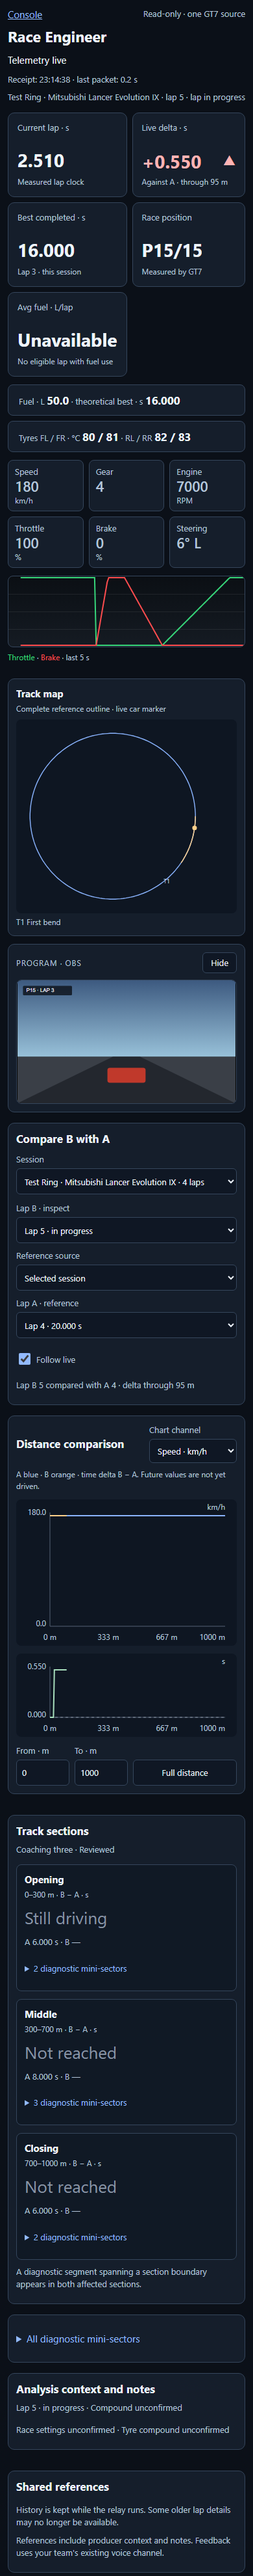
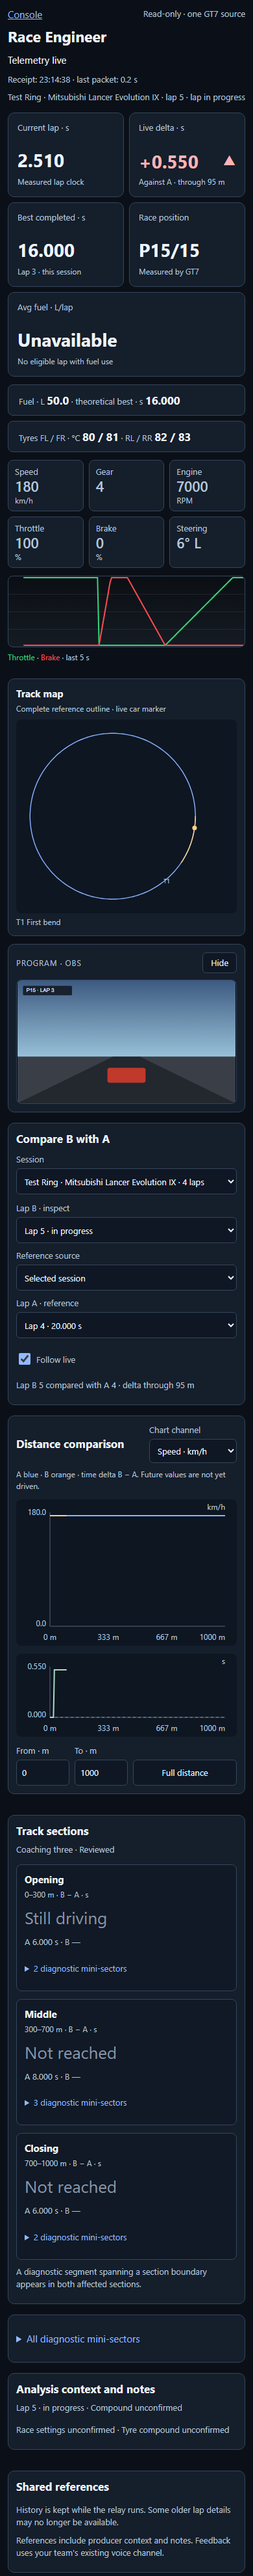
fix(console): keep the Engineer headline inside phone width

Changed region(s): [[0.4923, 0.0311, 0.8, 0.1242], [0.3692, 0.2174, 0.4308, 0.2485]]

diff --git a/src/console/race-engineer.html b/src/console/race-engineer.html
@@ -6,11 +6,11 @@
 @media(max-width:600px){main{padding:12px}header{align-items:start;flex-wrap:wrap;gap:8px}h1{font-size:23px}.headline{grid-template-columns:1fr 1fr;gap:8px;margin-top:14px}.headline .tile>span{min-height:2.4em;line-height:1.2}.tile strong{font-size:28px}.tile{padding:12px}.support{grid-template-columns:1fr;gap:8px}.inputs{gap:12px;font-size:12px}.card{padding:12px}.compare{grid-template-columns:1fr;gap:10px}.check{grid-column:auto}.plots,.context{grid-template-columns:1fr}.section-row{grid-template-columns:1fr}.plot-head{flex-wrap:nowrap}.plot-head select{max-width:135px}.section details{margin-top:8px}summary{padding:14px 0;min-height:44px}.check{min-height:44px}.zoom label{width:82px}.zoom{gap:8px}.zoom button{flex:1;padding:6px}.chat{flex-wrap:wrap}.chat input{width:100%}}
 
 [hidden]{display:none!important}.dim{opacity:.6}.value strong{font-variant-numeric:tabular-nums}.not-driven{color:#8995a5;font-weight:400}.support strong{font-size:17px}.scroll{overflow-x:auto}.source-row{margin:12px 0}.source-row select{width:100%}#notice:empty,#new-laps:empty,#larger-sectors:empty{display:none}.live-grid{display:grid;grid-template-columns:minmax(0,1fr) minmax(280px,380px);gap:12px;margin-top:20px;align-items:start}.live-grid:has(.program-card.off){grid-template-columns:minmax(0,1fr) auto}.live-grid .headline{margin-top:0}.program-card{padding:12px}.delta-tile{display:grid;grid-template-columns:minmax(0,1fr) auto;column-gap:8px;align-items:center}.delta-tile>span{grid-row:1;grid-column:1/-1}.delta-tile>strong{grid-row:2;grid-column:1}.delta-tile>small{grid-row:3;grid-column:1/-1}.trend{grid-row:2;grid-column:2;font-size:22px;line-height:1}.trend.up{color:var(--bad)}.trend.down{color:var(--good)}.trace-box{margin:0 0 12px}.trace-box canvas{display:block;width:100%;height:96px;background:linear-gradient(#0b0f14,#151b23);border:1px solid var(--edge);border-radius:8px}.trace-box .legend{margin:6px 0 0;font-size:12px;color:var(--muted)}.trace-box .thr{color:#37d67a}.trace-box .brk{color:#ff4d4f}.program-head{display:flex;justify-content:space-between;align-items:center;gap:10px}.tile .program-head span{font-size:12px;letter-spacing:.08em;text-transform:uppercase}.program-head button{min-height:32px;padding:4px 12px;font-size:13px}.program-frame{position:relative;margin-top:10px;aspect-ratio:16/9;background:#000;border:1px solid var(--edge);border-radius:8px;overflow:hidden;display:flex;align-items:center;justify-content:center}.program-frame img{width:100%;height:100%;object-fit:contain;display:none}.program-frame.loaded img{display:block}.tile .program-frame span{font-size:12px}.program-frame.loaded span{display:none}.program-card.off .program-frame{display:none}@media(max-width:1100px){.live-grid,.live-grid:has(.program-card.off){grid-template-columns:minmax(0,1fr)}.program-card{max-width:520px}}@media(max-width:600px){.live-grid{margin-top:14px}.program-card{max-width:none}}#notes{padding-left:18px}#references{padding-left:18px}#chatlog{max-height:240px;overflow-y:auto}.inputs .value{display:flex;gap:5px;align-items:center}.mini-details{margin-top:16px}.section table{font-size:12px}.section header{display:block}.section h3{font-size:15px;margin:0}.section .section-delta{display:block;font-size:26px;margin:10px 0}.section small{font-size:12px;color:var(--muted)}
-.live-grid,.live-grid:has(.program-card.off){grid-template-columns:minmax(0,1fr) minmax(300px,400px)}.headline{grid-template-columns:repeat(5,minmax(0,1fr))}.headline .tile{padding:14px}.headline .tile strong{font-size:28px}
+.live-grid,.live-grid:has(.program-card.off){grid-template-columns:minmax(0,1fr) minmax(300px,400px)}.headline{grid-template-columns:repeat(5,minmax(0,1fr))}.headline .tile{padding:14px}.headline .tile strong{font-size:28px;overflow-wrap:anywhere}
 .inputs{display:grid;grid-template-columns:repeat(3,minmax(0,1fr));gap:10px;margin:12px 0}.inputs .value{display:flex;flex-direction:column;align-items:flex-start;gap:2px;border:1px solid var(--edge);border-radius:8px;background:var(--panel);padding:10px 14px}.inputs .value>span{font-size:13px;color:var(--muted)}.inputs .value strong{font-size:34px;line-height:1.1;font-weight:600;overflow-wrap:anywhere}.inputs .value small{font-size:12px;color:var(--muted)}
 .live-side{display:flex;flex-direction:column;gap:12px;min-width:0}.map-card{padding:12px}.map-card h2{font-size:15px}.map-card .sub{margin:4px 0 0;font-size:12px}.map-card svg{margin-top:8px}.plots{grid-template-columns:minmax(0,1.55fr) minmax(0,1fr);align-items:start}.plots #larger-sectors .section-row{grid-template-columns:minmax(0,1fr)}.trace-box canvas{height:150px}
 @media(max-width:1100px){.live-grid,.live-grid:has(.program-card.off){grid-template-columns:minmax(0,1fr)}.plots{grid-template-columns:minmax(0,1fr)}.plots #larger-sectors .section-row{grid-template-columns:repeat(3,minmax(0,1fr))}.headline{grid-template-columns:repeat(3,minmax(0,1fr))}.live-side{display:grid;grid-template-columns:minmax(0,1fr) minmax(0,1fr);align-items:start}.inputs .value strong{font-size:28px}}
-@media(max-width:600px){.trace-box canvas{height:110px}.plots #larger-sectors .section-row{grid-template-columns:minmax(0,1fr)}.headline{grid-template-columns:1fr 1fr}.live-side{grid-template-columns:minmax(0,1fr)}.inputs{gap:8px}.inputs .value{padding:8px 10px}.inputs .value strong{font-size:22px}}
+@media(max-width:600px){.trace-box canvas{height:110px}.plots #larger-sectors .section-row{grid-template-columns:minmax(0,1fr)}.headline{grid-template-columns:minmax(0,1fr) minmax(0,1fr)}.headline .tile:last-child{grid-column:1/-1}.live-side{grid-template-columns:minmax(0,1fr)}.inputs{gap:8px}.inputs .value{padding:8px 10px}.inputs .value strong{font-size:22px}}
 </style><script>window.RC_API_BASE="__RC_API_BASE__";window.RC_API=p=>(window.RC_API_BASE||'')+p;if(location.search)history.replaceState({},'',location.pathname);</script></head><body><main>
 <header><div><a href="/console">Console</a><h1>Race Engineer</h1></div><span class="sub">Read-only · one GT7 source</span></header>
 <p id="status" role="status">Checking access…</p><p id="receipt" class="sub">Waiting for measured telemetry</p><p id="notice" role="status"></p>
